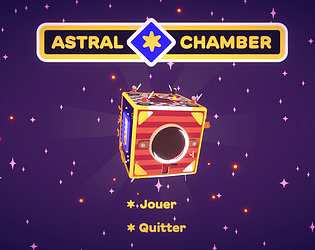
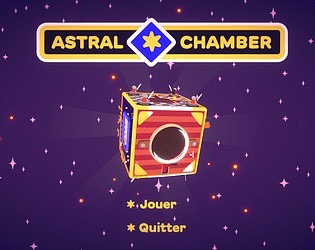
astral fix

diff --git a/_projects/vg_astralchamber.md b/_projects/vg_astralchamber.md
@@ -2,7 +2,7 @@
 layout: page
 title: astralchamber
 description: a puzzle game about confinement
-img: assets/img/games_astralchamber.jpeg
+img: assets/img/games_astralchamber1.jpeg
 importance: 1
 category: video games
 ---
